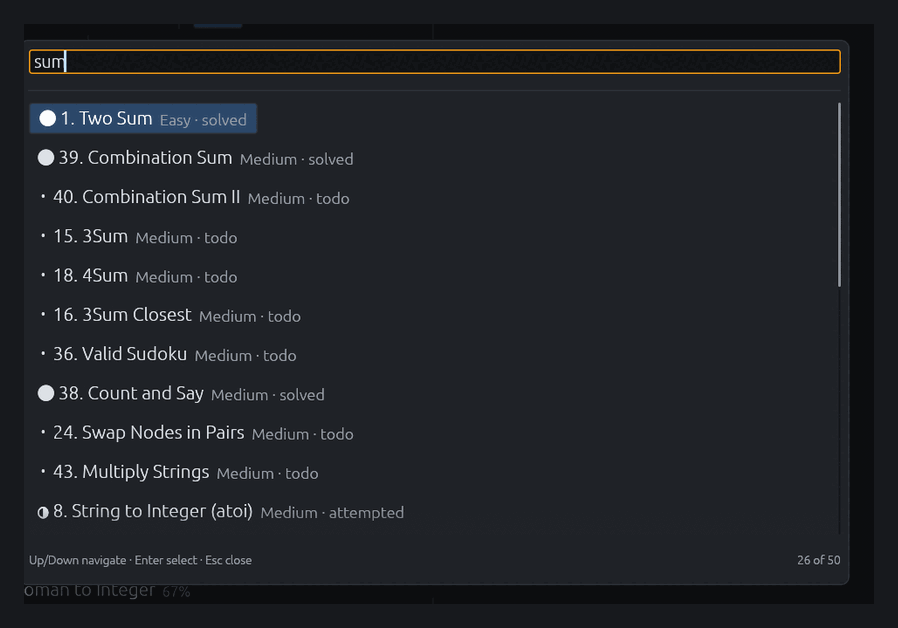
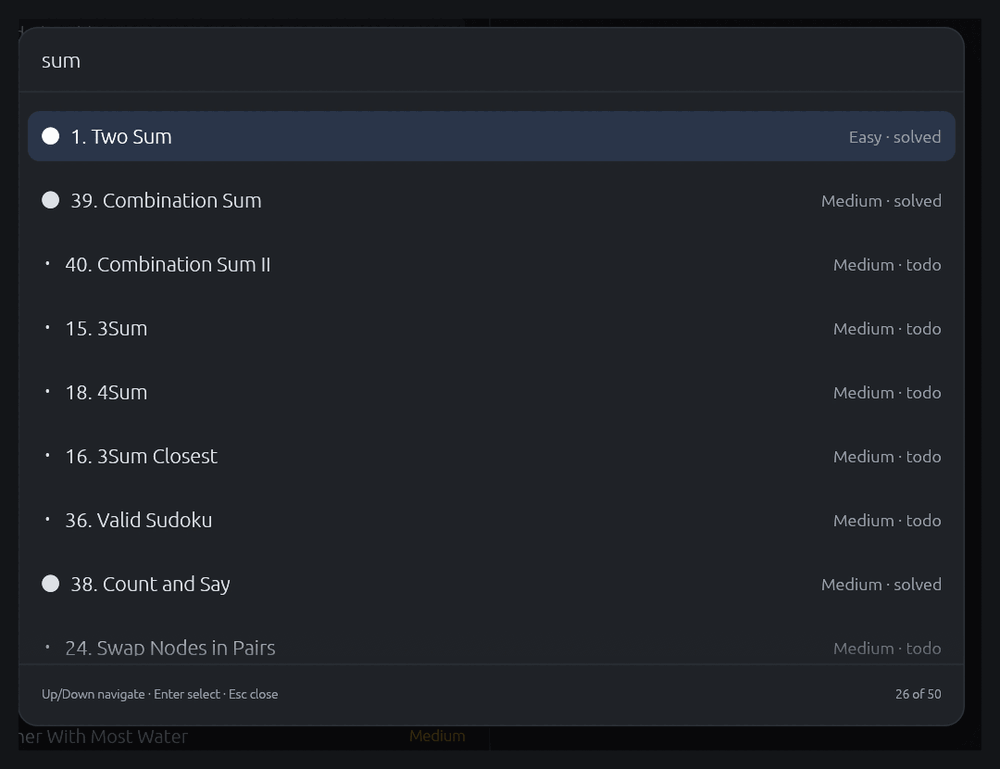
ui: roomier palette rows with right-aligned hints
Adopts the in-flight palette row work that had been sitting uncommitted in the
working tree (last touched 3.2 hours before this commit) and finishes it.

- rows are laid out by hand at a fixed 40px height with a painted selection
  pill, instead of a LayoutJob inside a selectable_label
- the hint is measured and right-aligned, so difficulty/status line up in a
  column; previously it was appended inline after the label
- the popup card gets a 14px radius

Also fixes a regression the rewrite contained: it stopped painting
`entry.icon`, which silently removed the solved / attempted / todo markers from
Ctrl+P and left the field vestigial while callers still set it. Rendering
caught it — the 16 palette tests all passed either way, because nothing asserts
painted output. There is now a comment at the paint site saying so.

docs/palette.png regenerated to match the new styling (taken with the pointer
parked away so no hover tooltip is captured).

diff --git a/src/ui/palette.rs b/src/ui/palette.rs
@@ -4,8 +4,7 @@
 //! The matching logic is a pure function so it can be tested exhaustively
 //! without an egui context.
 
-use egui::text::LayoutJob;
-use egui::{Color32, FontId, Key, RichText, TextEdit, TextFormat, Ui};
+use egui::{Color32, Key, RichText, TextEdit};
 
 /// Width of the palette popup.
 const PALETTE_WIDTH: f32 = 680.0;
@@ -13,6 +12,8 @@ const PALETTE_WIDTH: f32 = 680.0;
 const LIST_HEIGHT: f32 = 400.0;
 /// Upper bound on rendered rows, so a 4000-entry list stays instant.
 const MAX_ROWS: usize = 200;
+/// Height of one result row.
+const ROW_HEIGHT: f32 = 40.0;
 
 // ---------------------------------------------------------------------------
 // Fuzzy matching
@@ -246,17 +247,17 @@ pub fn show(
         state.scroll_to_selection = true;
     }
 
-    // Build on `Modal::default_area` rather than a bare `Area`: it carries
-    // `UiKind::Modal` and `Order::Foreground`, without which the modal is not
-    // drawn above the panels.
-    let popup_frame = egui::Frame::popup(&egui::Style::default())
-        .corner_radius(egui::CornerRadius::same(12))
-        .inner_margin(egui::Margin::same(14))
+    // A rounded, shadowed card with a borderless search field and an
+    // accent-tinted selection reads as a modern launcher rather than a stock
+    // egui popup.
+    let popup_frame = egui::Frame::popup(ctx.global_style().as_ref())
+        .corner_radius(egui::CornerRadius::same(14))
+        .inner_margin(egui::Margin::ZERO)
         .shadow(egui::epaint::Shadow {
-            offset: [0, 8],
-            blur: 24,
+            offset: [0, 12],
+            blur: 32,
             spread: 0,
-            color: Color32::from_black_alpha(90),
+            color: Color32::from_black_alpha(110),
         });
 
     let response = egui::Modal::new(modal_id)
@@ -268,50 +269,166 @@ pub fn show(
             let mut empty_action_clicked = false;
             ui.set_width(PALETTE_WIDTH);
 
-            ui.horizontal(|ui| {
-                let edit = ui.add(
-                    TextEdit::singleline(&mut state.query)
-                        .id(modal_id.with("query"))
-                        .hint_text(placeholder)
-                        .desired_width(f32::INFINITY),
-                );
-                if std::mem::take(&mut state.grab_focus) {
-                    edit.request_focus();
-                }
-                if edit.changed() {
-                    state.selected = 0;
-                }
-            });
+            let dark = ui.visuals().dark_mode;
+            let border = if dark {
+                Color32::from_rgb(0x2a, 0x2f, 0x37)
+            } else {
+                Color32::from_rgb(0xe6, 0xe8, 0xec)
+            };
+            let selection_fill = if dark {
+                Color32::from_rgb(0x2a, 0x35, 0x49)
+            } else {
+                Color32::from_rgb(0xe9, 0xef, 0xf9)
+            };
+            let hover_fill = if dark {
+                Color32::from_rgb(0x20, 0x25, 0x2c)
+            } else {
+                Color32::from_rgb(0xf2, 0xf4, 0xf7)
+            };
 
-            ui.add_space(6.0);
-            ui.separator();
+            // -- search -------------------------------------------------
+            let search = egui::Frame::NONE
+                .inner_margin(egui::Margin::symmetric(16, 14))
+                .show(ui, |ui| {
+                    let edit = ui.add(
+                        TextEdit::singleline(&mut state.query)
+                            .id(modal_id.with("query"))
+                            .hint_text(RichText::new(placeholder).size(15.0))
+                            .frame(egui::Frame::NONE)
+                            .font(egui::FontId::proportional(15.0))
+                            .desired_width(f32::INFINITY),
+                    );
+                    if std::mem::take(&mut state.grab_focus) {
+                        edit.request_focus();
+                    }
+                    if edit.changed() {
+                        state.selected = 0;
+                    }
+                });
+            ui.painter().hline(
+                search.response.rect.x_range(),
+                search.response.rect.bottom(),
+                egui::Stroke::new(1.0, border),
+            );
 
+            // -- results ------------------------------------------------
             egui::ScrollArea::vertical()
                 .max_height(LIST_HEIGHT)
-                .auto_shrink([false, true])
+                .auto_shrink([false, false])
                 .show(ui, |ui| {
+                    ui.add_space(6.0);
+
                     if matches.is_empty() {
-                        ui.add_space(8.0);
-                        match empty_action {
+                        ui.add_space(12.0);
+                        ui.vertical_centered(|ui| match empty_action {
                             Some(label) => {
-                                if ui.button(label).clicked() {
+                                if ui
+                                    .add(egui::Button::new(label).corner_radius(8.0))
+                                    .clicked()
+                                {
                                     empty_action_clicked = true;
                                 }
                             }
                             None => {
                                 ui.label(RichText::new("No matches").weak());
                             }
-                        }
-                        ui.add_space(8.0);
+                        });
+                        ui.add_space(12.0);
                         return;
                     }
 
                     for (row, &entry_index) in matches.iter().enumerate().take(MAX_ROWS) {
                         let entry = &entries[entry_index];
                         let is_selected = row == state.selected;
-                        let job = row_job(entry, ui, is_selected);
+                        let (rect, response) = ui.allocate_exact_size(
+                            egui::vec2(ui.available_width(), ROW_HEIGHT),
+                            egui::Sense::click(),
+                        );
 
-                        let response = ui.selectable_label(is_selected, job);
+                        if ui.is_rect_visible(rect) {
+                            let pill = rect.shrink2(egui::vec2(6.0, 2.0));
+                            if is_selected {
+                                ui.painter().rect_filled(
+                                    pill,
+                                    egui::CornerRadius::same(8),
+                                    selection_fill,
+                                );
+                            } else if response.hovered() {
+                                ui.painter().rect_filled(
+                                    pill,
+                                    egui::CornerRadius::same(8),
+                                    hover_fill,
+                                );
+                            }
+
+                            let text_color = if is_selected {
+                                ui.visuals().strong_text_color()
+                            } else {
+                                ui.visuals().text_color()
+                            };
+                            let hint_color = ui.visuals().weak_text_color();
+                            let inner = rect.shrink2(egui::vec2(16.0, 0.0));
+
+                            let hint_font = egui::FontId::proportional(12.0);
+                            let hint_width = if entry.hint.is_empty() {
+                                0.0
+                            } else {
+                                ui.painter()
+                                    .layout_no_wrap(
+                                        entry.hint.clone(),
+                                        hint_font.clone(),
+                                        hint_color,
+                                    )
+                                    .size()
+                                    .x
+                                    + 16.0
+                            };
+
+                            // The entry's icon carries real information — for
+                            // Ctrl+P it is the solved / attempted / todo marker.
+                            // NOTE: this must stay. An earlier rewrite of this
+                            // row dropped it and silently removed those markers;
+                            // no test caught it because nothing asserted painted
+                            // output, only that rendering did not panic.
+                            let mut label_left = inner.left();
+                            if let Some(icon) = entry.icon.as_deref() {
+                                let galley = ui.painter().layout_no_wrap(
+                                    icon.to_owned(),
+                                    egui::FontId::monospace(14.0),
+                                    text_color,
+                                );
+                                let position = egui::pos2(
+                                    inner.left(),
+                                    inner.center().y - galley.size().y / 2.0,
+                                );
+                                label_left += galley.size().x + 8.0;
+                                ui.painter().galley(position, galley, text_color);
+                            }
+
+                            let label = ui.painter().layout(
+                                entry.label.clone(),
+                                egui::FontId::proportional(14.5),
+                                text_color,
+                                (inner.width() - hint_width - (label_left - inner.left()))
+                                    .max(40.0),
+                            );
+                            ui.painter().galley(
+                                egui::pos2(label_left, inner.center().y - label.size().y / 2.0),
+                                label,
+                                text_color,
+                            );
+
+                            if !entry.hint.is_empty() {
+                                ui.painter().text(
+                                    egui::pos2(inner.right(), inner.center().y),
+                                    egui::Align2::RIGHT_CENTER,
+                                    &entry.hint,
+                                    hint_font,
+                                    hint_color,
+                                );
+                            }
+                        }
+
                         if is_selected && state.scroll_to_selection {
                             response.scroll_to_me(Some(egui::Align::Center));
                         }
@@ -319,6 +436,8 @@ pub fn show(
                             outcome.chosen = Some(entry_index);
                         }
                     }
+
+                    ui.add_space(6.0);
                 });
 
             state.scroll_to_selection = false;
@@ -332,23 +451,29 @@ pub fn show(
                 outcome.empty_action = true;
             }
 
-            ui.add_space(2.0);
-            ui.horizontal(|ui| {
-                // Deliberately plain text: arrow and return glyphs are absent
-                // from egui's default fonts (see `crate::glyphs`).
-                ui.label(
-                    RichText::new("Up/Down navigate · Enter select · Esc close")
-                        .weak()
-                        .small(),
-                );
-                ui.with_layout(egui::Layout::right_to_left(egui::Align::Center), |ui| {
-                    ui.label(
-                        RichText::new(format!("{} of {}", matches.len(), entries.len()))
+            // -- footer ------------------------------------------------
+            let footer = egui::Frame::NONE
+                .inner_margin(egui::Margin::symmetric(16, 10))
+                .show(ui, |ui| {
+                    ui.horizontal(|ui| {
+                        let hint = RichText::new("Up/Down navigate · Enter select · Esc close")
                             .weak()
-                            .small(),
-                    );
+                            .small();
+                        ui.label(hint);
+                        ui.with_layout(egui::Layout::right_to_left(egui::Align::Center), |ui| {
+                            ui.label(
+                                RichText::new(format!("{} of {}", matches.len(), entries.len()))
+                                    .weak()
+                                    .small(),
+                            );
+                        });
+                    });
                 });
-            });
+            ui.painter().hline(
+                footer.response.rect.x_range(),
+                footer.response.rect.top(),
+                egui::Stroke::new(1.0, border),
+            );
 
             outcome
         });
@@ -362,63 +487,6 @@ pub fn show(
         state.close();
     }
     outcome
-}
-
-fn row_job(entry: &PaletteEntry, ui: &Ui, is_selected: bool) -> LayoutJob {
-    let mut job = LayoutJob::default();
-    job.wrap.max_width = ui.available_width().max(200.0);
-
-    let text_color = if is_selected {
-        ui.visuals().strong_text_color()
-    } else {
-        ui.visuals().text_color()
-    };
-    let hint_color = ui.visuals().weak_text_color();
-
-    if let Some(icon) = &entry.icon {
-        job.append(
-            icon,
-            0.0,
-            TextFormat {
-                font_id: FontId::monospace(14.0),
-                color: text_color,
-                ..Default::default()
-            },
-        );
-        job.append(
-            " ",
-            0.0,
-            TextFormat {
-                font_id: FontId::proportional(14.0),
-                color: text_color,
-                ..Default::default()
-            },
-        );
-    }
-
-    job.append(
-        &entry.label,
-        0.0,
-        TextFormat {
-            font_id: FontId::proportional(14.0),
-            color: text_color,
-            ..Default::default()
-        },
-    );
-
-    if !entry.hint.is_empty() {
-        job.append(
-            &format!("  {}", entry.hint),
-            0.0,
-            TextFormat {
-                font_id: FontId::proportional(12.0),
-                color: hint_color,
-                ..Default::default()
-            },
-        );
-    }
-
-    job
 }
 
 #[cfg(test)]
